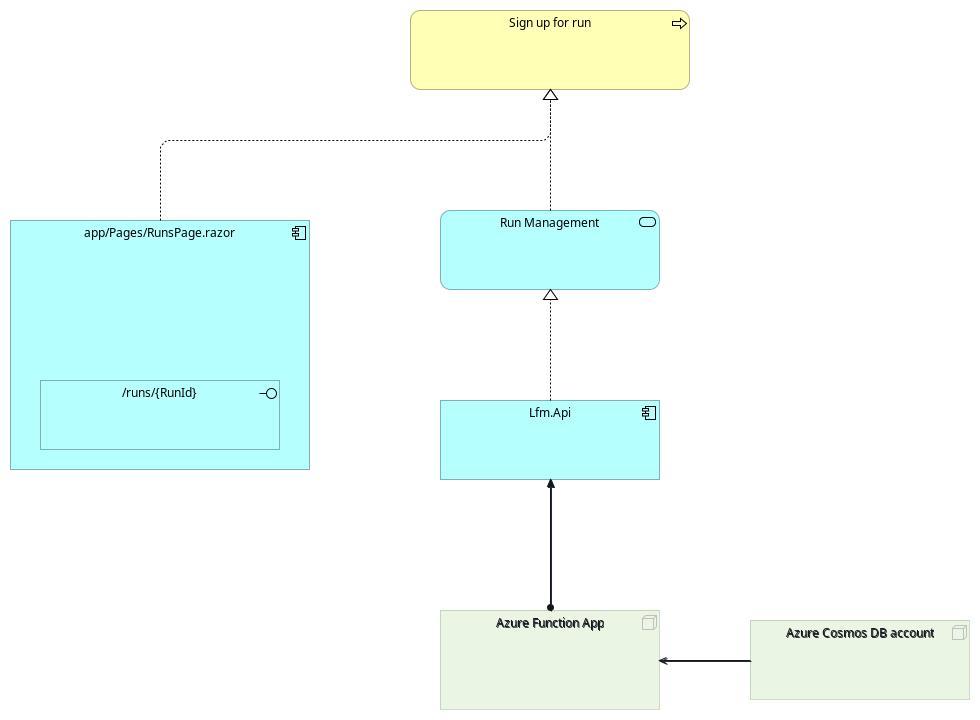
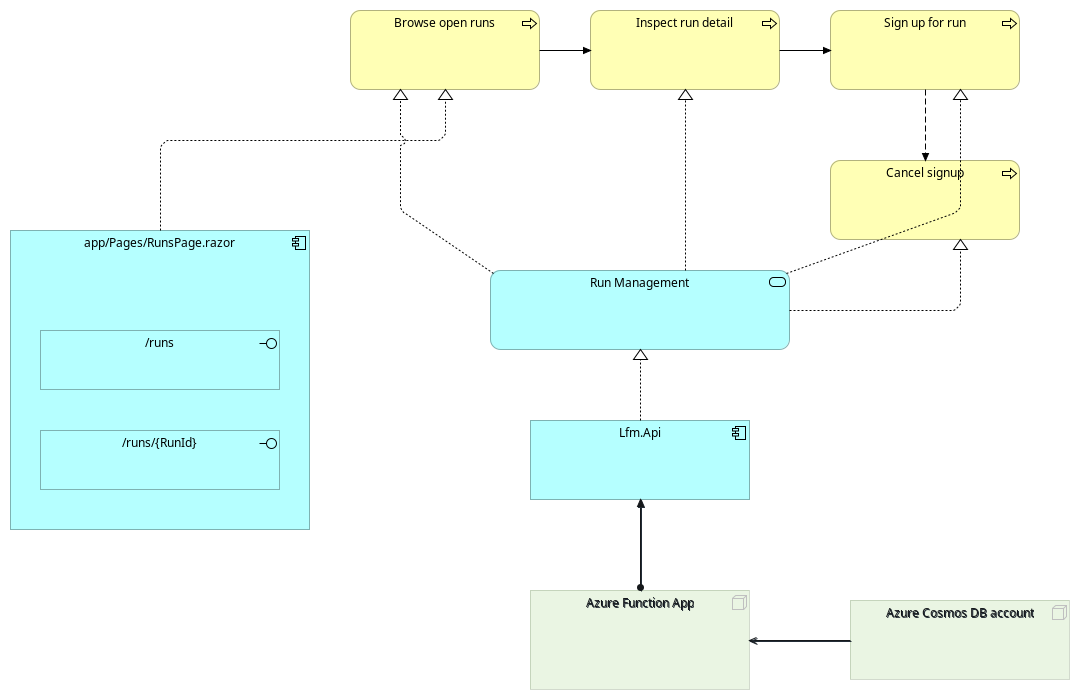
Consolidate service realization views

diff --git a/docs/architecture/README.md b/docs/architecture/README.md
@@ -15,10 +15,7 @@ The model was lifted from the repository's .NET solution, Bicep IaC, and GitHub 
 | 5 | Capability Map (FORWARD-ONLY scaffold) | `Capability Map` | [`id-view-capability-map.png`](renders/id-view-capability-map.png) |
 | 6 | Motivation (FORWARD-ONLY scaffold) | `Motivation` | [`id-view-motivation.png`](renders/id-view-motivation.png) |
 | 7 | Run Signup — Business Process Cooperation | `Business Process Cooperation` | [`id-view-business-processes.png`](renders/id-view-business-processes.png) |
-| 8 | Browse open runs — Service Realization (Process-rooted) | `Service Realization` | [`id-view-sr-browse-runs.png`](renders/id-view-sr-browse-runs.png) |
-| 9 | Inspect run detail — Service Realization (Process-rooted) | `Service Realization` | [`id-view-sr-inspect-run.png`](renders/id-view-sr-inspect-run.png) |
-| 10 | Sign up for run — Service Realization (Process-rooted) | `Service Realization` | [`id-view-service-realization.png`](renders/id-view-service-realization.png) |
-| 11 | Cancel signup — Service Realization (Process-rooted) | `Service Realization` | [`id-view-sr-cancel-signup.png`](renders/id-view-sr-cancel-signup.png) |
+| 8 | Run Signup — Service Realization (Process-rooted) | `Service Realization` | [`id-view-service-realization.png`](renders/id-view-service-realization.png) |
 
 ### 1. Application Cooperation
 
@@ -62,29 +59,11 @@ Forward-only seed for the "why" behind the run-signup capability. It connects th
 
 §9.7 Business Process Cooperation view of the user-driven "Sign up for run" flow. **Active structure** (top): a `Player` Business Actor Assigned to every user-driven Behaviour. **Behaviour** (middle, left-to-right Triggering chain): an entry `Player wants to join a run` Business Event → `Browse open runs` (realised by `RunsListFunction`) → `Inspect run detail` (`RunsDetailFunction`) → `Sign up for run` (`RunsSignupFunction`) → terminal `Signup confirmed` Business Event; an alt-path Flow from `Sign up for run` to `Cancel signup` (`RunsCancelSignupFunction`). **Passive structure** (bottom): `Run` and `Signup` Business Objects, Accessed by the Behaviour steps that read or write them. LFM has no Durable Functions orchestrators or Logic Apps, so this chain is architect-authored rather than lifted (per architecture-design `references/procedures/lifting-rules-process.md`); forward-only status is retained in element documentation rather than repeated in visible labels. Names and chain shape have **not** been validated against business stakeholders.
 
-### 8. Browse open runs — Service Realization (Process-rooted)
+### 8. Run Signup — Service Realization (Process-rooted)
 
-![Browse open runs Service Realization](renders/id-view-sr-browse-runs.png)
+![Run Signup Service Realization](renders/id-view-service-realization.png)
 
-§9.3 Service Realization drill-down for the `Browse open runs` Business Process. The forward-only Business Process is realised by the real `Run Management` Application Service, implemented by `Lfm.Api`, hosted on `Azure Function App`, and served by `Azure Cosmos DB account` on the data plane. The user-driven entry point is the UI Application Component [`app/Pages/RunsPage.razor`](../../app/Pages/RunsPage.razor) exposing the `/runs` Application Interface.
-
-### 9. Inspect run detail — Service Realization (Process-rooted)
-
-![Inspect run detail Service Realization](renders/id-view-sr-inspect-run.png)
-
-§9.3 Service Realization drill-down for the `Inspect run detail` Business Process. The forward-only process is realised by the same real `Run Management` Application Service and `Lfm.Api` component, hosted on `Azure Function App`, with `Azure Cosmos DB account` serving the run-detail read path. The user-driven entry point is [`app/Pages/RunsPage.razor`](../../app/Pages/RunsPage.razor) exposing the `/runs/{RunId}` Application Interface.
-
-### 10. Sign up for run — Service Realization (Process-rooted)
-
-![Sign up for run Service Realization](renders/id-view-service-realization.png)
-
-§9.3 Service Realization view, Process-rooted modality. The Business Process `Sign up for run` (top, FORWARD-ONLY) drills down through `Run Management` Application Service → `Lfm.Api` Application Component → `Azure Function App` Technology Node, with `Azure Cosmos DB account` serving the Function App on the data plane. Per the §9.3 Blazor idiom, the user-driven entry point is the UI Application Component `app/Pages/RunsPage.razor` exposing the `/runs/{RunId}` Application Interface; the UI Component carries a Realisation edge to the Business Process. This view satisfies the AD-B-6 / AD-B-7 / AD-B-8 / AD-B-9 / AD-B-10 between-view invariants for the §9.7 Business Process Cooperation view (sibling).
-
-### 11. Cancel signup — Service Realization (Process-rooted)
-
-![Cancel signup Service Realization](renders/id-view-sr-cancel-signup.png)
-
-§9.3 Service Realization drill-down for the `Cancel signup` alternate-path Business Process. The process is realised by `Run Management` through `Lfm.Api` on `Azure Function App`, with `Azure Cosmos DB account` serving the signup mutation path. The user-driven entry point remains [`app/Pages/RunsPage.razor`](../../app/Pages/RunsPage.razor) and the `/runs/{RunId}` Application Interface, matching the sibling cooperation view's alt-path Flow.
+§9.3 Service Realization drill-down for the run-signup Business Process chain. The four process steps from the sibling cooperation view (`Browse open runs`, `Inspect run detail`, `Sign up for run`, and alternate-path `Cancel signup`) are shown together because they share the same real realization chain: `Run Management` Application Service → `Lfm.Api` Application Component → `Azure Function App`, with `Azure Cosmos DB account` serving the Function App on the data plane. The user-driven entry point is the UI Application Component [`app/Pages/RunsPage.razor`](../../app/Pages/RunsPage.razor), with `/runs` serving the list step and `/runs/{RunId}` serving inspect/sign-up/cancel affordances. Keeping this as one view makes the shared implementation explicit instead of repeating four near-identical diagrams.
 
 ## Forward-only scope
 